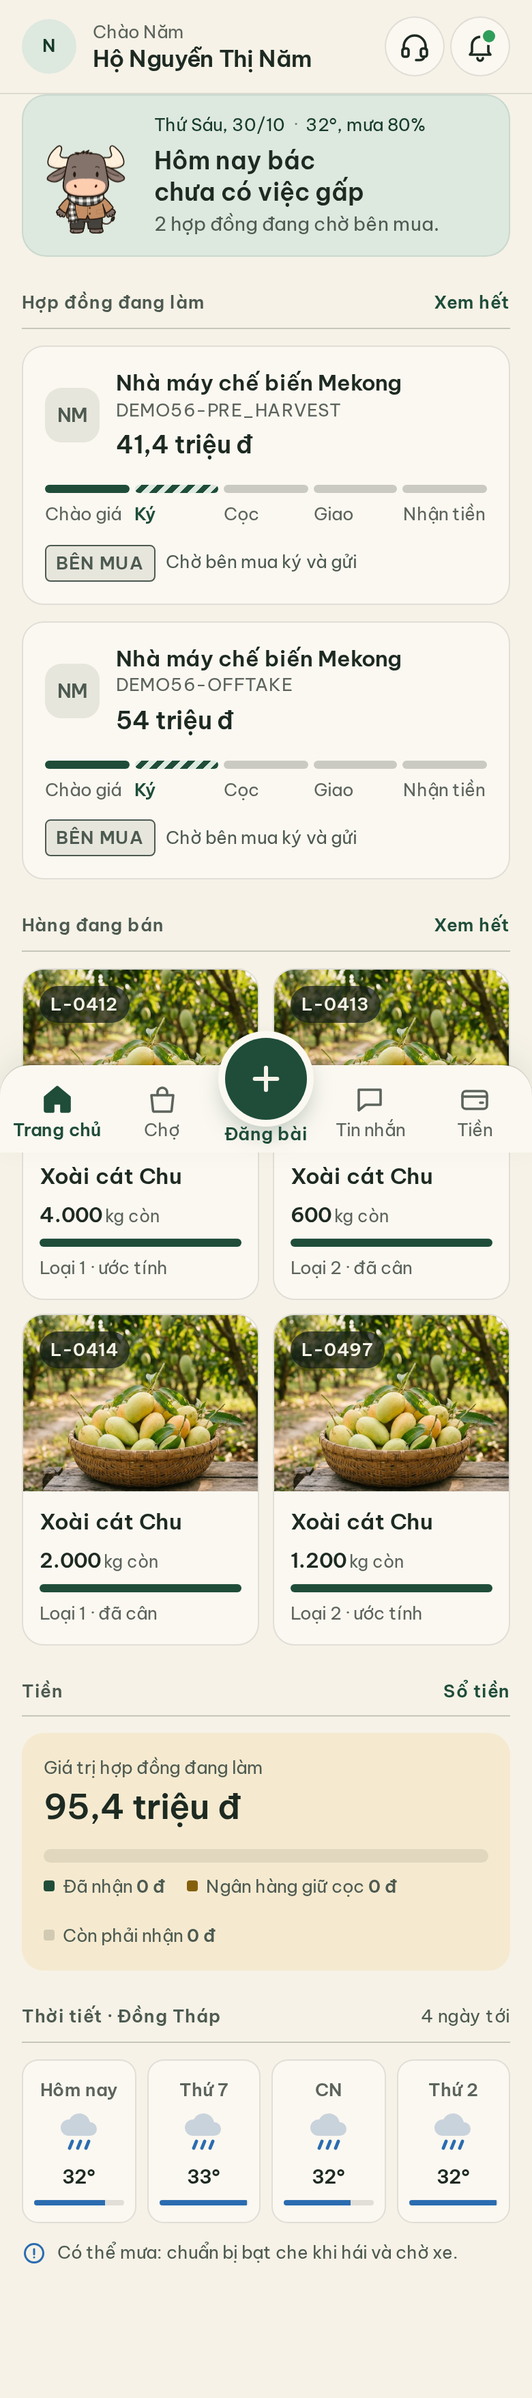
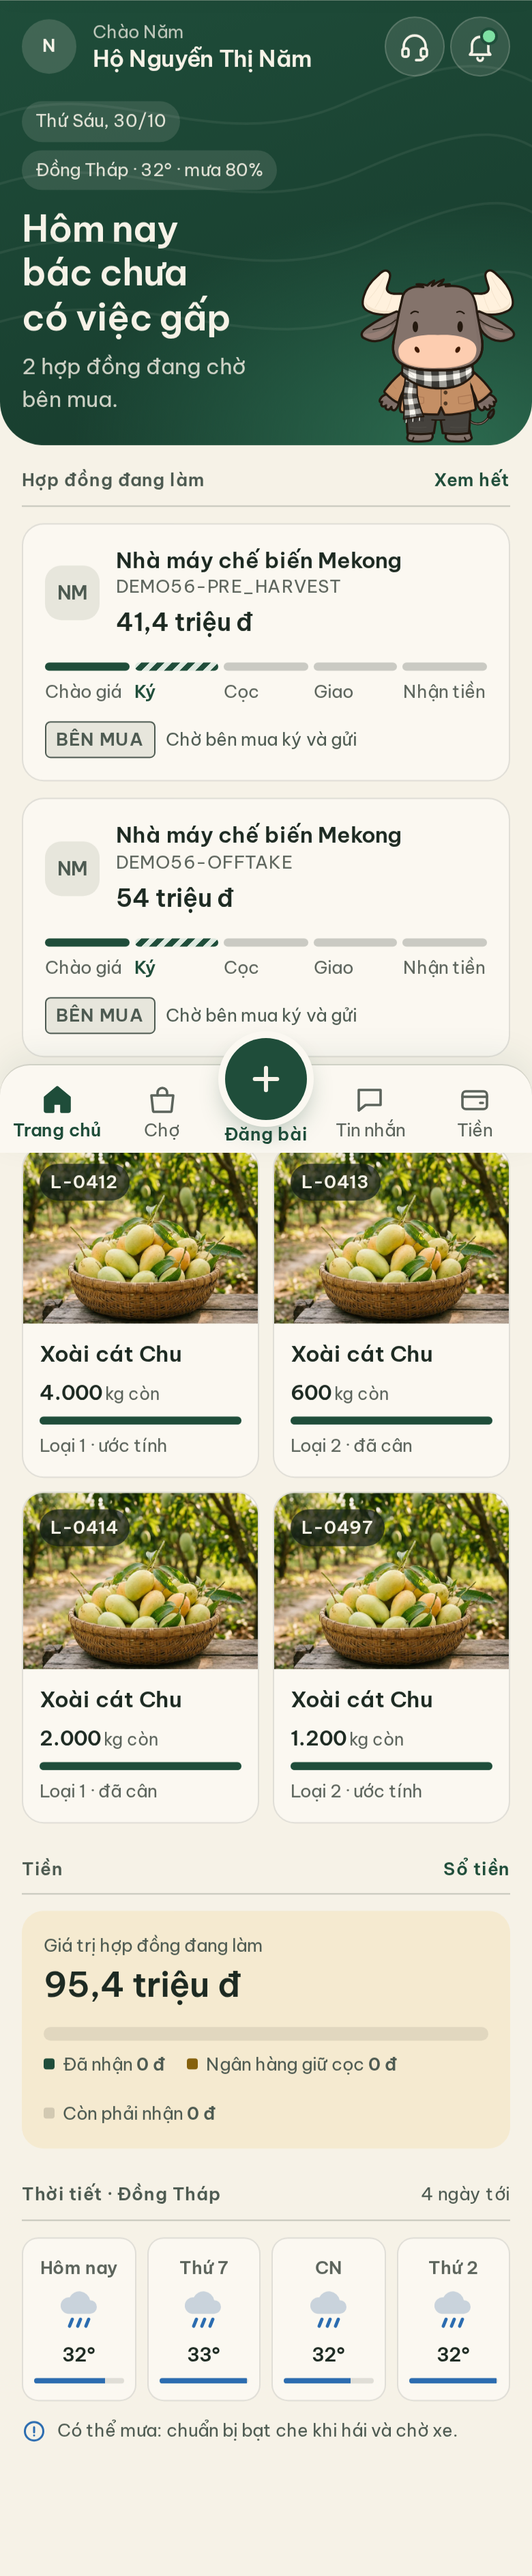
Trang chủ bán: khôi phục mảng xanh header + thông báo có trâu theo người sáng lập; chừa vùng tai thỏ iPhone (safe-area-inset-top) cho header

diff --git a/frontend/thiet-ke/ban-hom-nay.html b/frontend/thiet-ke/ban-hom-nay.html
@@ -7,31 +7,49 @@
 <link rel="icon" href="/assets/logo.svg" type="image/svg+xml">
 <link rel="stylesheet" href="./so-vuon.css">
 <style>
-  /* Thẻ "Việc hôm nay": gọn, nền xanh nhạt, trâu nhỏ bên trái — không chiếm cả màn */
-  .viec-nay { display: grid; grid-template-columns: 76px 1fr; gap: 12px; align-items: center; padding: 12px 14px 12px 8px; border-radius: 18px;
-    background: var(--la-nhat); border: 1px solid rgba(31, 77, 58, 0.10); }
-  .viec-nay canvas { width: 76px; height: 88px; display: block; margin: -6px 0 -8px; }
-  .viec-nay .chip-hang { display: flex; flex-wrap: wrap; gap: 6px; font-size: 13px; color: var(--la-dam); }
-  .viec-nay .chip-hang span + span::before { content: "·"; margin-right: 6px; opacity: .6; }
-  .viec-nay h2 { font-size: 18px; line-height: 1.3; font-weight: 600; color: var(--muc); margin-top: 4px; text-wrap: balance; }
-  .viec-nay #cau-phu { font-size: 14px; color: var(--muc-phu); margin-top: 2px; }
-  .viec-nay .nut-trong { margin-top: 8px; min-height: 40px; padding: 0 14px; background: var(--la); color: var(--tren-la); }
+  .hero { position: relative; overflow: hidden; color: #f6f2e7; border-radius: 0 0 32px 32px; padding-bottom: 22px; margin-bottom: 16px;
+    background: radial-gradient(120% 90% at 85% 100%, #2c6a4f 0%, transparent 60%), linear-gradient(160deg, #1f4d3a 0%, #173a2c 100%); }
+  .hero .hoa-van { position: absolute; inset: 0; width: 100%; height: 100%; fill: none; stroke: rgba(246, 242, 231, 0.07); stroke-width: 1.5; }
+  /* iPhone tai thỏ / Dynamic Island: chừa vùng thanh trạng thái khi chạy như app (viewport-fit=cover) */
+  .dau-hero { position: relative; background: none; border: 0; z-index: 1; padding-top: calc(12px + env(safe-area-inset-top)); }
+  .dau-hero .chao { color: rgba(246, 242, 231, 0.75); }
+  .dau-hero h1 { color: #f6f2e7; }
+  .dau-hero .anh-dai-dien { background: rgba(246, 242, 231, 0.16); color: #f6f2e7; }
+  .dau-hero .nut-tron { background: rgba(246, 242, 231, 0.12); border-color: rgba(246, 242, 231, 0.18); color: #f6f2e7; }
+  .dau-hero .cham-moi { background: #7ee0a3; box-shadow: 0 0 0 2px #1f4d3a; }
+  .hero-than { position: relative; z-index: 1; padding: 6px 16px 0; max-width: 64%; }
+  .chip-hang { display: flex; flex-wrap: wrap; gap: 6px; }
+  .chip-hero { font-size: 13px; padding: 5px 10px; border-radius: 999px; background: rgba(246, 242, 231, 0.12); color: rgba(246, 242, 231, 0.9); }
+  .hero h2 { font-size: 27px; line-height: 1.2; font-weight: 700; letter-spacing: -0.02em; margin-top: 12px; text-wrap: balance; }
+  .hero #cau-phu { margin-top: 8px; color: rgba(246, 242, 231, 0.82); }
+  .hero .nut-trong { margin-top: 14px; }
+  .hero #trau { position: absolute; right: -6px; bottom: -4px; width: 150px; height: 172px; z-index: 1; }
+  .dau-gon { padding-top: calc(12px + env(safe-area-inset-top)); position: fixed; top: 0; left: 50%; width: min(100%, 480px); transform: translate(-50%, -110%); z-index: 20; box-shadow: 0 4px 16px rgba(0,0,0,.06);
+    transition: transform 240ms cubic-bezier(0.23, 1, 0.32, 1); }
+  .dau-gon.hien { transform: translate(-50%, 0); }
 </style>
 </head>
 <body>
 <div class="trang">
-  <header class="dau" id="dau"></header>
+  <!-- Mảng xanh đầu trang: header + việc hôm nay + trâu -->
+  <header class="hero" id="hero">
+    <svg class="hoa-van" viewBox="0 0 400 260" preserveAspectRatio="none" aria-hidden="true">
+      <path d="M-10 70 C80 40 160 95 260 60 S380 40 420 55"/><path d="M-10 110 C90 80 170 135 270 100 S390 80 420 95"/>
+      <path d="M-10 150 C100 120 180 175 280 140 S395 120 420 135"/><path d="M-10 190 C110 160 190 215 290 180 S400 160 420 175"/>
+    </svg>
+    <div class="dau dau-hero" id="dau"></div>
+    <div class="hero-than" aria-live="polite">
+      <div class="chip-hang"><span class="chip-hero" id="ngay">&nbsp;</span><span class="chip-hero" id="chip-troi" hidden></span></div>
+      <h2 id="cau-chinh">Đang mở sổ…</h2>
+      <p id="cau-phu">&nbsp;</p>
+      <button class="nut-trong" type="button" id="nut-chinh" hidden></button>
+    </div>
+    <canvas id="trau" width="420" height="480" aria-hidden="true"></canvas>
+  </header>
+  <!-- Header gọn: hiện khi đã cuộn qua mảng xanh -->
+  <div class="dau dau-gon" id="dau-gon" aria-hidden="true"></div>
 
   <main class="noi" id="noi" aria-busy="true">
-    <section class="viec-nay" aria-live="polite">
-      <canvas id="trau" width="228" height="264" aria-hidden="true"></canvas>
-      <div>
-        <p class="chip-hang"><span id="ngay">&nbsp;</span><span id="chip-troi" hidden></span></p>
-        <h2 id="cau-chinh">Đang mở sổ…</h2>
-        <p id="cau-phu">&nbsp;</p>
-        <button class="nut-trong" type="button" id="nut-chinh" hidden></button>
-      </div>
-    </section>
 
     <section class="muc" aria-labelledby="t-hd">
       <h3 id="t-hd"><span>Hợp đồng đang làm</span><a href="#">Xem hết</a></h3>
@@ -67,6 +85,9 @@
 import { tien, tienDu, can, esc, so, phien, layDuLieu, ANH_SP, viecCho, CHANG, chiSoChang, LUOT, dangLam, giuThamSo, veDau, veTab, soThongBaoMoi } from "./chung.js";
 veTab("trang-chu");
 veDau(document.getElementById("dau"), { chao: "Chào bác", ten: "AgiViet", chuDau: "" });
+// Header gọn hiện khi cuộn qua mảng xanh
+new IntersectionObserver(([e]) => { const g = document.getElementById("dau-gon"); g.classList.toggle("hien", !e.isIntersecting); g.setAttribute("aria-hidden", String(e.isIntersecting)); },
+  { rootMargin: "-64px 0px 0px 0px" }).observe(document.getElementById("cau-chinh"));
 const $ = (id) => document.getElementById(id);
 try {
   rive.RuntimeLoader.setWasmUrl("/assets/vendor/rive/rive.wasm");
@@ -91,7 +112,7 @@ async function mo() {
   // Số thông báo chưa đọc lấy từ backend (lỗi tải thì không hiện chấm)
   const chuaDoc = await soThongBaoMoi(token);
   const dauBan = { chao: `Chào ${me.name.split(" ").at(-1)}`, ten: me.org.name, chuDau: me.name.split(" ").at(-1).charAt(0).toUpperCase(), soThongBao: chuaDoc };
-  veDau($("dau"), dauBan);
+  veDau($("dau"), dauBan); veDau($("dau-gon"), dauBan);
   $("ngay").textContent = new Date().toLocaleDateString("vi-VN", { weekday: "long", day: "numeric", month: "numeric" });
 
   const toiBac = don.filter((d) => d.hien_thi?.toi_luot?.phia === d.phia_cua_ban);
@@ -147,7 +168,7 @@ async function mo() {
       return `<div class="ngay-troi"><p class="thu">${esc(thu)}</p>${mua === null ? '<p class="phu" style="margin:14px 0">—</p>' : iconTroi(mua)}<p class="nhiet">${nhiet === null ? "—" : Math.round(nhiet) + "°"}</p>${mua === null ? "" : `<div class="mua" title="Khả năng mưa ${mua}%"><span style="width:${mua}%"></span></div>`}</div>`;
     }).join("");
     const n0 = troi.ngay[0], c0 = so(n0.nhiet_do_cao_c), m0 = so(n0.kha_nang_mua_phan_tram, 0, 100);
-    if (c0 !== null) { $("chip-troi").textContent = `${Math.round(c0)}°${m0 !== null ? `, mưa ${m0}%` : ""}`; $("chip-troi").hidden = false; }
+    if (c0 !== null) { $("chip-troi").textContent = `${troi.tinh?.ten || ""} · ${Math.round(c0)}°${m0 !== null ? ` · mưa ${m0}%` : ""}`; $("chip-troi").hidden = false; }
     const lk = troi.ngay[0].loi_khuyen?.[0];
     if (lk) { $("loi-khuyen").innerHTML = `<svg viewBox="0 0 24 24" fill="none" stroke="currentColor" stroke-width="2" stroke-linecap="round"><circle cx="12" cy="12" r="9"/><path d="M12 8v5M12 16h.01"/></svg><span>${esc(lk)}</span>`; $("loi-khuyen").hidden = false; }
   } else {

diff --git a/frontend/thiet-ke/so-vuon.css b/frontend/thiet-ke/so-vuon.css
@@ -61,7 +61,7 @@ p { margin: 0; text-wrap: pretty; }
 
 /* Khung app */
 .trang { max-width: 480px; margin: 0 auto; min-height: 100dvh; display: flex; flex-direction: column; }
-.dau { padding: var(--k3) var(--k4); display: flex; align-items: center; justify-content: space-between; gap: var(--k3); position: sticky; top: 0; z-index: 5; background: var(--giay); border-bottom: 1px solid var(--ke); }
+.dau { padding: calc(var(--k3) + env(safe-area-inset-top)) var(--k4) var(--k3); display: flex; align-items: center; justify-content: space-between; gap: var(--k3); position: sticky; top: 0; z-index: 5; background: var(--giay); border-bottom: 1px solid var(--ke); }
 .dau .chao { font-size: var(--c-ghi); color: var(--muc-nhat); }
 .dau h1 { font-size: 17px; font-weight: 600; letter-spacing: -0.01em; line-height: 1.25; }
 .dau-phai { display: flex; gap: 4px; }
